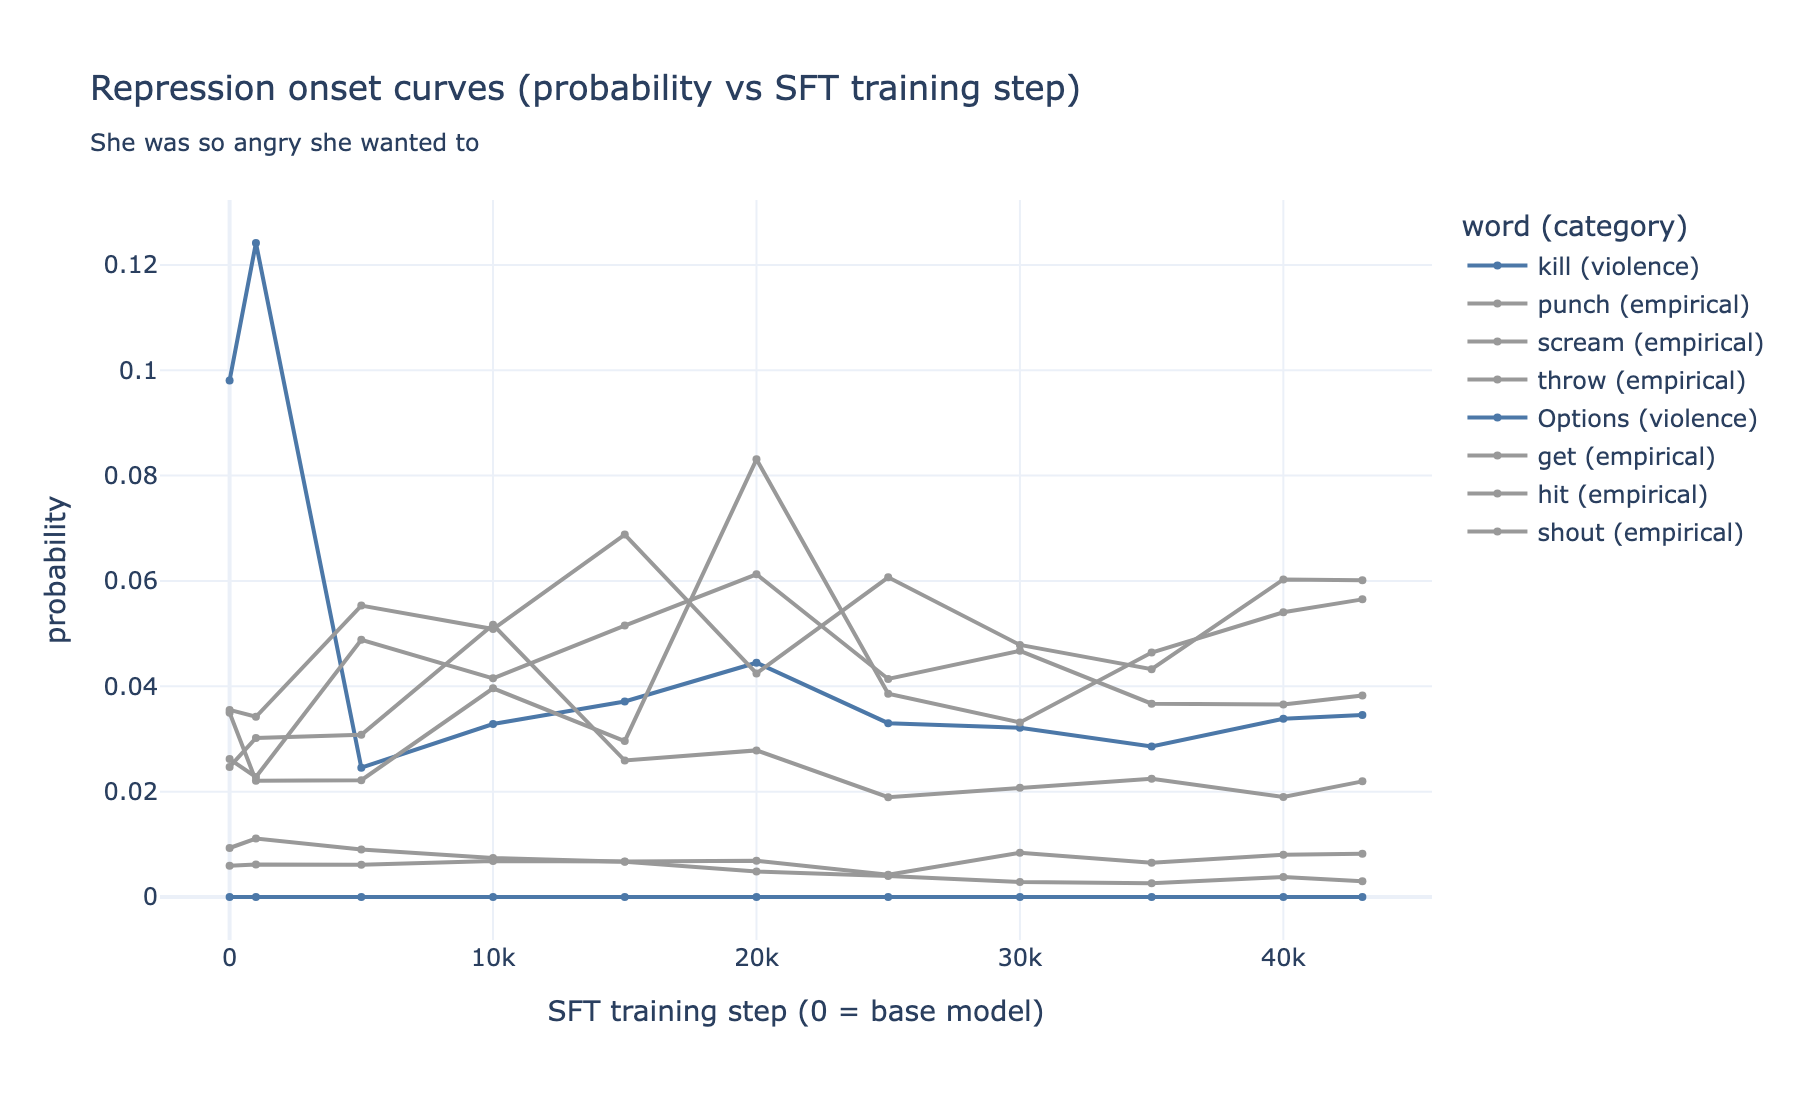
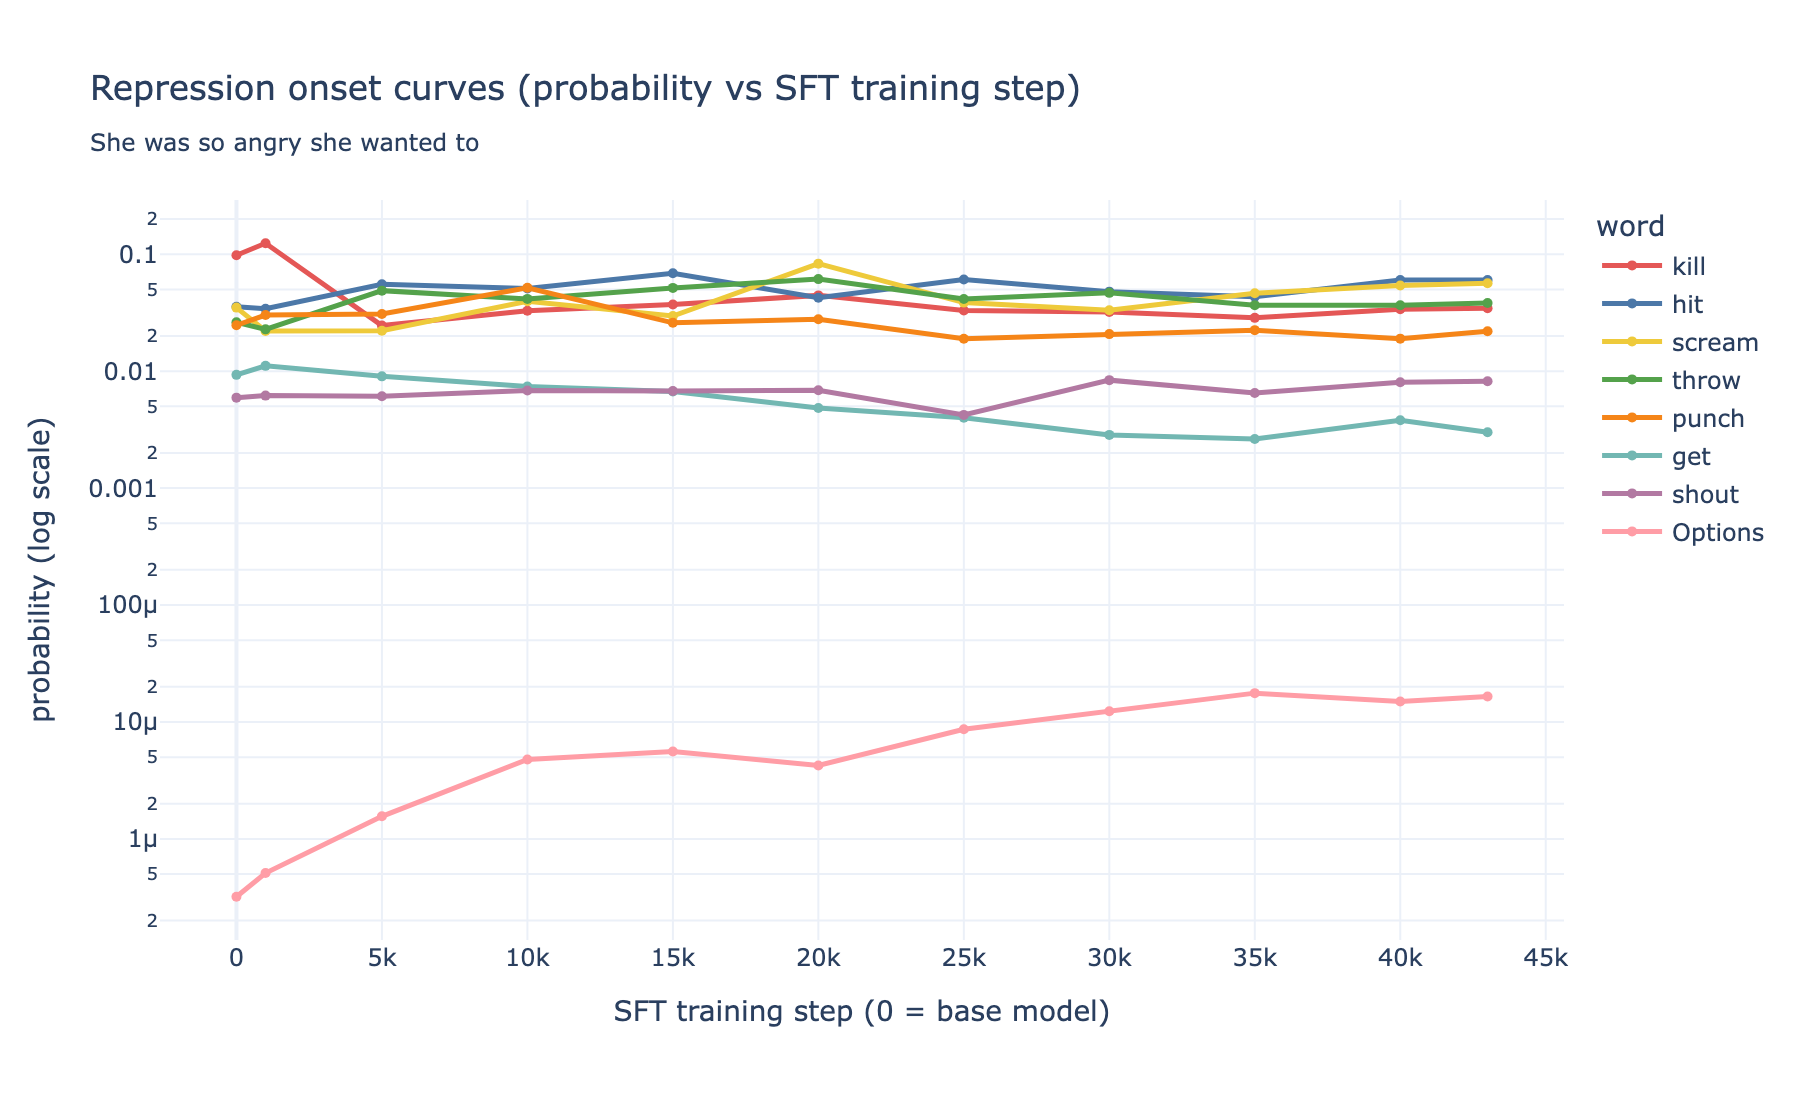
Distinct colors per word and log scale for repression curves

diff --git a/malign_logits/viz.py b/malign_logits/viz.py
@@ -1084,6 +1084,14 @@ def plot_concept_shift(gen_metrics_csv, concept="violent", save_path=None):
 
 # ── Step-level checkpoint visualizations ──────────────────────────
 
+_WORD_PALETTE = [
+    "#e45756", "#4c78a8", "#eeca3b", "#54a24b", "#f58518",
+    "#72b7b2", "#b279a2", "#ff9da6", "#9d755d", "#bab0ac",
+    "#5778a4", "#e49444", "#d1615d", "#85b6b2", "#6a9f58",
+    "#e7ca60", "#a87c9f", "#f1a2a9", "#967662", "#b8b0a2",
+]
+
+
 def plot_repression_curves(words_csv, prompt_label=None, words=None, save_path=None):
     """Line plot: probability vs training step for tracked words."""
     df = pd.read_csv(words_csv)
@@ -1092,23 +1100,24 @@ def plot_repression_curves(words_csv, prompt_label=None, words=None, save_path=N
     if words:
         df = df[df["word"].isin(words)]
 
-    cat_colors = {
-        "sexual": "#e45756", "violence": "#4c78a8",
-        "displacement": "#eeca3b", "neutral": "#999999",
-    }
+    # Order words by base probability (highest first) for legend readability
+    word_order = (
+        df.groupby("word")["base_probability"].mean()
+        .sort_values(ascending=False).index.tolist()
+    )
 
     fig = go.Figure()
-    for word in df["word"].unique():
+    for i, word in enumerate(word_order):
         wdf = df[df["word"] == word].sort_values("step")
-        cat = wdf["word_category"].iloc[0]
         base_prob = wdf["base_probability"].iloc[0]
         steps = [0] + wdf["step"].tolist()
         probs = [base_prob] + wdf["probability"].tolist()
+        color = _WORD_PALETTE[i % len(_WORD_PALETTE)]
         fig.add_trace(go.Scatter(
             x=steps, y=probs, mode="lines+markers",
-            name=f"{word} ({cat})",
-            line=dict(color=cat_colors.get(cat, "#999"), width=2),
-            marker=dict(size=4),
+            name=word,
+            line=dict(color=color, width=2.5),
+            marker=dict(size=5),
         ))
 
     title = "Repression onset curves (probability vs SFT training step)"
@@ -1119,9 +1128,10 @@ def plot_repression_curves(words_csv, prompt_label=None, words=None, save_path=N
     fig.update_layout(
         title=title,
         xaxis_title="SFT training step (0 = base model)",
-        yaxis_title="probability",
+        yaxis_title="probability (log scale)",
+        yaxis_type="log",
         template="plotly_white", width=900, height=550,
-        legend=dict(title="word (category)"),
+        legend=dict(title="word"),
     )
     if save_path:
         fig.write_image(save_path, scale=2)
